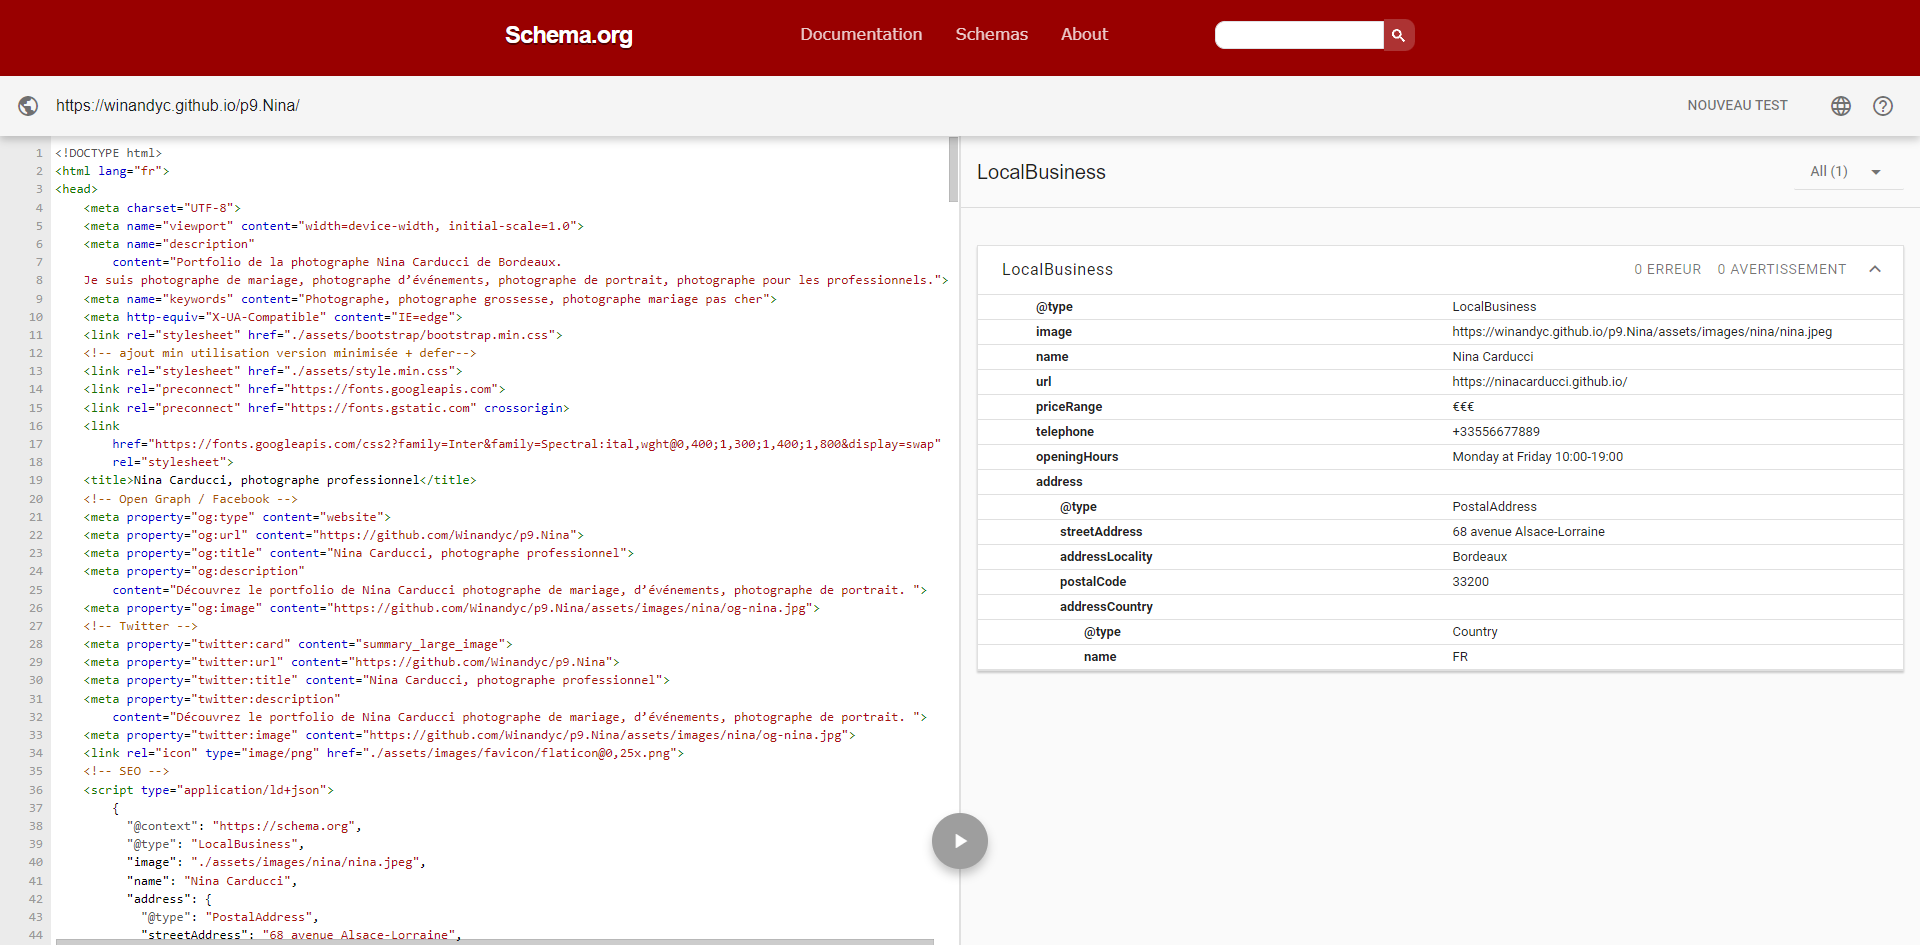
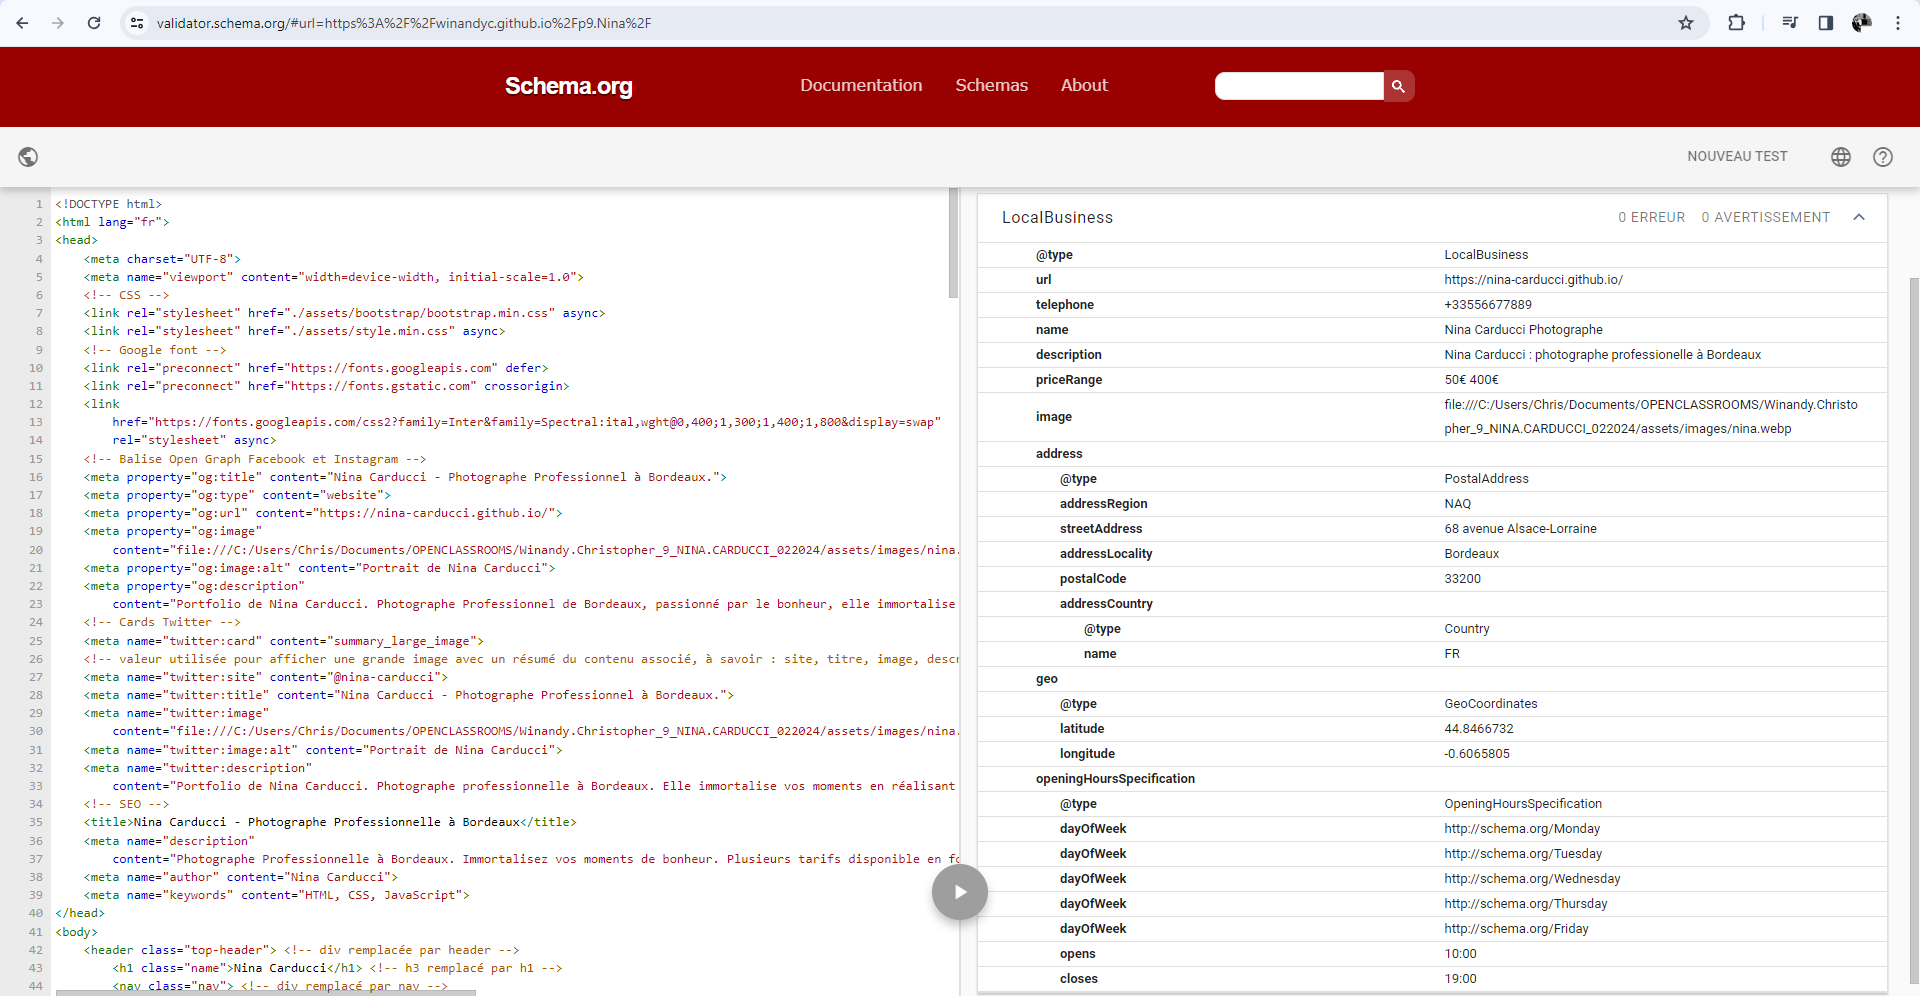
commit for soutenance - last changes 4 - 90 all - End of the project

Changed region(s): [[0.0, 0.0, 1.0, 1.0], [0.4375, 0.8286, 0.5938, 0.9513]]

diff --git a/index.html b/index.html
@@ -310,7 +310,7 @@
 		"name": "Nina Carducci Photographe",
 		"description" : "Nina Carducci : photographe professionelle à Bordeaux",
 		"priceRange": "50€ 400€",
-		"image": "https://buens18k.github.io/SEO-ninacarducci.github.io-main/assets/images/nina.webp",
+		"image": file:///C:/Users/Chris/Documents/OPENCLASSROOMS/Winandy.Christopher_9_NINA.CARDUCCI_022024/assets/images/nina.webp,
 		"address": {
 			"@type": "PostalAddress",
 			"addressRegion": "NAQ",
